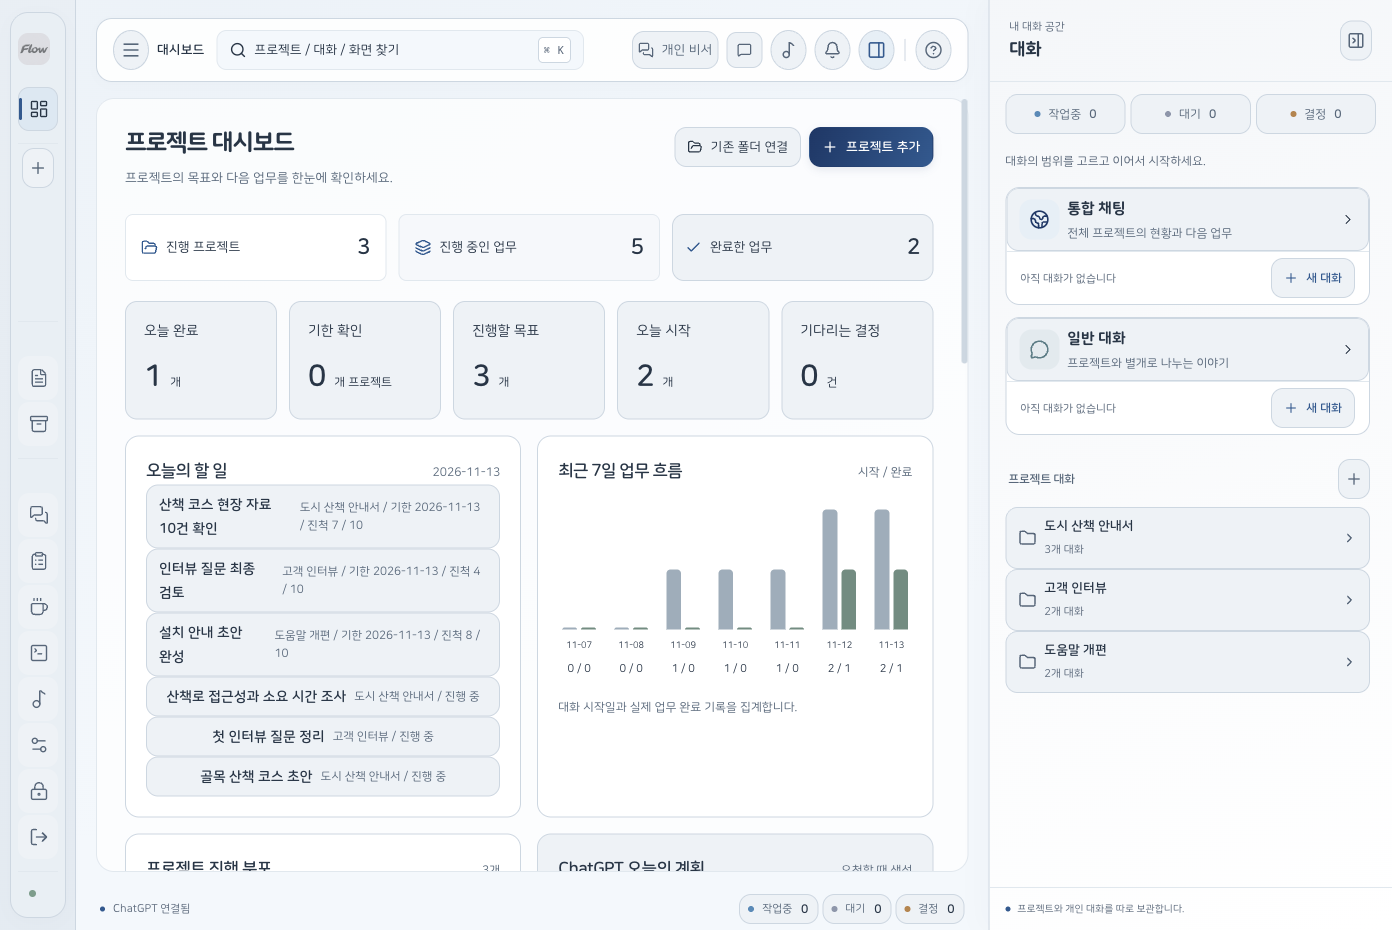
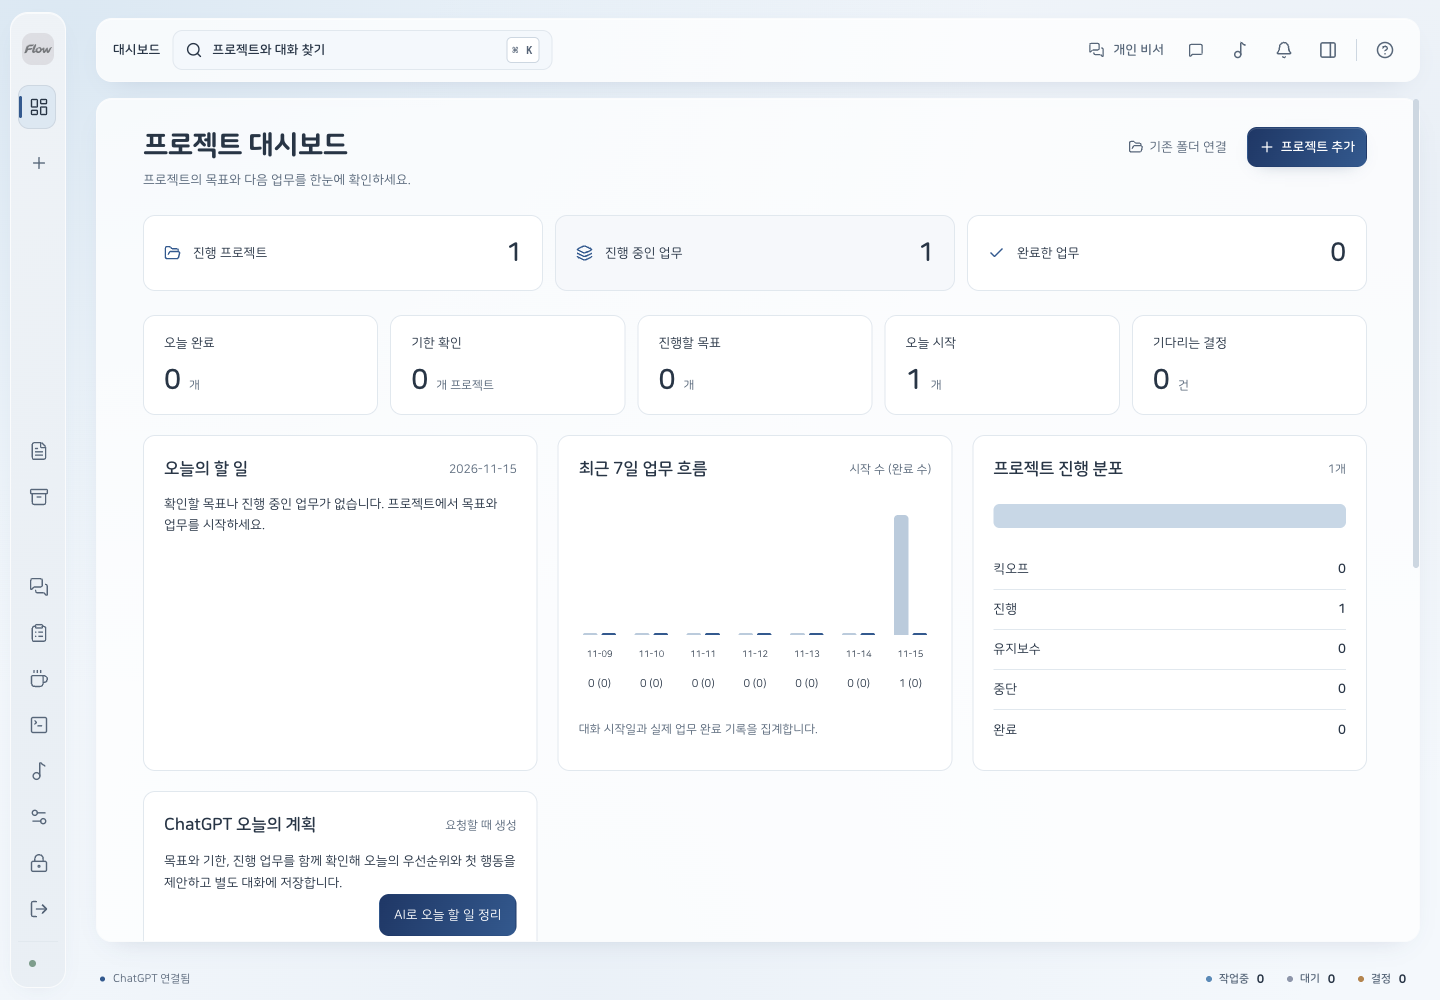
261115_01 넓은 대화의 이어가기와 업데이트 유지 및 최종 회귀 정리

diff --git a/docs/index.html b/docs/index.html
@@ -6,7 +6,7 @@
     <meta name="theme-color" content="#ffffff" />
     <meta
       name="description"
-      content="대시보드를 유지한 채 오른쪽에서 통합 채팅 / 프로젝트 대화 / 일반 대화를 이어가세요. Flowrium은 본인의 ChatGPT 계정으로 사용하는 Mac과 Windows용 AI 작업 공간입니다."
+      content="넓은 채팅에서 프로젝트와 역할별 대화를 이어가세요. Flowrium은 본인의 ChatGPT 계정으로 사용하는 Mac과 Windows용 AI 작업 공간입니다."
     />
     <title>Flowrium</title>
     <link rel="icon" href="./mark.png" type="image/png" />
@@ -36,7 +36,7 @@
       <section class="hero wrap" aria-labelledby="hero-title">
         <span class="eyebrow">프로젝트 작업 공간</span>
         <h1 id="hero-title">프로젝트를 열고,<br />오늘 할 일을 고르세요.</h1>
-        <p>본인의 ChatGPT 계정으로 조사 / 문서 / 보고를 맡기세요. 대시보드를 보면서 오른쪽 대화함에서 통합 채팅 / 프로젝트 대화 / 일반 대화를 따로 이어갑니다. 왼쪽 메뉴는 마우스를 올리면 펼쳐지고 벗어나면 접힙니다.</p>
+        <p>본인의 ChatGPT 계정으로 조사와 문서, 보고를 맡기세요. 대화는 넓게 열리고, 필요하면 대시보드와 나란히 볼 수 있습니다. 왼쪽 메뉴는 마우스를 올리면 펼쳐지고 벗어나면 접힙니다.</p>
         <div class="hero-actions">
           <a class="button primary" href="#download"
             >Flowrium 다운로드 <span aria-hidden="true">↓</span></a
@@ -51,22 +51,22 @@
       >
         <div class="section-heading">
           <div>
-            <h2 id="workspace-title">대시보드와 나란히 이어가는 대화</h2>
+            <h2 id="workspace-title">넓은 대화와 한눈에 보는 업무</h2>
           </div>
         </div>
         <figure class="app-preview">
           <img
             src="./workspace.png"
-            width="1392"
-            height="930"
-            alt="Flowrium 실제 화면. 왼쪽의 자동 확장 메뉴, 오늘의 할 일과 업무 그래프, 오른쪽의 통합 채팅 / 프로젝트 대화 / 일반 대화가 보입니다."
+            width="1440"
+            height="1000"
+            alt="Flowrium 실제 대시보드. 오늘의 할 일, 업무 그래프와 프로젝트 진행 분포를 확인할 수 있습니다."
           />
-          <figcaption>예시 프로젝트로 촬영한 실제 화면 / 왼쪽 메뉴는 마우스를 올리면 펼쳐집니다. 오른쪽에서 통합 채팅 / 프로젝트 대화 / 일반 대화를 골라도 대시보드를 계속 볼 수 있습니다.</figcaption>
+          <figcaption>예시 프로젝트로 촬영한 실제 화면입니다. 대화는 넓게 읽고, 필요할 때 대시보드와 나란히 보세요.</figcaption>
         </figure>
         <div class="features">
           <article>
             <h3>세 범위로 나눈 대화</h3>
-            <p>통합 채팅으로 전체 업무를 살피고, 프로젝트 대화로 실제 작업을 맡기고, 일반 대화로 별개의 질문을 이어가세요. 파일 첨부 / 실행 중 추가 지시 / 분기와 되감기도 대화마다 사용할 수 있습니다.</p>
+            <p>통합 채팅으로 전체 업무를 살피고, 프로젝트 대화로 실제 작업을 맡기고, 일반 대화로 별개의 질문을 이어가세요. 파일 첨부와 실행 중 추가 지시, 분기와 되감기도 대화마다 사용할 수 있습니다.</p>
           </article>
           <article>
             <h3>대화에서 산출물로</h3>
@@ -74,10 +74,10 @@
           </article>
           <article>
             <h3>오늘의 업무와 AI 보고</h3>
-            <p>목표 / 기한 / 그래프로 현황을 보고 ChatGPT에 오늘의 계획을 맡기세요. 중앙 팝업에서 프로젝트 / 기간 / 계정 모델과 생각의 깊이를 고르면 AI가 실제 완료 기록으로 보고와 인계를 작성합니다.</p>
+            <p>목표와 기한, 그래프로 현황을 보고 ChatGPT에 오늘의 계획을 맡기세요. 중앙 팝업에서 프로젝트와 기간, 계정 모델과 생각의 깊이를 고르면 AI가 실제 완료 기록으로 보고와 인계를 작성합니다.</p>
           </article>
           <article><h3>자료와 실행 도구 관리</h3><p>전체 자료를 미리 보고 새 폴더로 옮기세요. 원문과 백업을 보존합니다. 준비한 로컬 음성 서버의 실행을 관리하고 프로젝트 자동 포트표에서 서비스 주소와 충돌을 확인합니다.</p></article>
-          <article><h3>기존 프로젝트 대화 이어가기</h3><p>이 기기의 Codex 프로젝트 대화를 원래 문맥으로 연결하세요. 본문과 도구 기록 / 지원 첨부 / 원문을 로컬에 보관하고, 한 앱에서 작업한 뒤 다른 앱에서 새로고침해 이어갑니다. 독립 사본도 선택할 수 있습니다.</p></article>
+          <article><h3>기존 프로젝트 대화 이어가기</h3><p>이 기기의 Codex 프로젝트 대화를 원래 문맥으로 연결하세요. 본문과 도구 기록, 지원 첨부와 원문을 로컬에 보관하고, 한 앱에서 작업한 뒤 다른 앱에서 새로고침해 이어갑니다. 독립 사본도 선택할 수 있습니다.</p></article>
           <article><h3>설정과 긴 기록도 차분하게</h3><p>설정을 분류별로 찾고 주요 실행과 보조 행동을 구분합니다. 긴 대화의 원문은 보존하면서 최근 기록부터 나누어 표시해 이전 내용을 차례로 살펴봅니다.</p></article>
         </div>
       </section>
@@ -101,7 +101,7 @@
               <span class="os-symbol" aria-hidden="true">⌘</span>
               <h3>Mac</h3>
               <p>Apple Silicon</p>
-              <span class="architecture">M 시리즈 칩 / arm64</span
+              <span class="architecture">M 시리즈 칩 (arm64)</span
               ><a
                 class="download-button"
                 data-download="mac-arm64"
@@ -127,7 +127,7 @@
               </svg>
               <h3>Windows</h3>
               <p>64비트 PC</p>
-              <span class="architecture">Intel / AMD 프로세서 / x64</span
+              <span class="architecture">Intel 또는 AMD 프로세서 (x64)</span
               ><a
                 class="download-button"
                 data-download="win-x64"
@@ -144,7 +144,7 @@
               설치 파일의 서명 상태와 SHA-256 확인값은 해당 버전의 릴리스에서 확인하세요.
             </p>
             <p>기존 0.6.0 이하 버전은 날짜 형식의 새 설치본을 이번 한 번 직접 설치하세요. <a href="https://github.com/hyeondk/flowrium/blob/main/docs/VERSIONING.md">버전과 업데이트 안내 ↗</a></p>
-            <p><a href="https://github.com/hyeondk/flowrium/blob/main/docs/TERMINAL-INSTALL.md">터미널 설치 / 이 컴퓨터에서 직접 빌드하기 ↗</a></p>
+            <p><a href="https://github.com/hyeondk/flowrium/blob/main/docs/TERMINAL-INSTALL.md">터미널 설치와 직접 빌드하기 ↗</a></p>
             <a
               id="releases-link"
               href="https://github.com/hyeondk/flowrium/releases"
@@ -191,7 +191,7 @@
             <div>
               <h3>프로젝트와 대화 선택</h3>
               <p>
-                프로젝트 폴더를 연결하고 오른쪽에서 대화 범위를 고르세요. 일반 대화는 프로젝트 없이도 시작하며, 프로젝트에서 진행한 기존 Codex 대화도 골라 가져올 수 있습니다.
+                프로젝트 폴더를 연결하고 대화 범위를 고르세요. 일반 대화는 프로젝트 없이도 시작하며, 프로젝트에서 진행한 기존 Codex 대화도 골라 가져올 수 있습니다.
               </p>
             </div>
           </li>

diff --git a/src/chat-workspace.css b/src/chat-workspace.css
@@ -53,6 +53,9 @@
 .conversation-dock .markdown :is(a,code){overflow-wrap:anywhere;word-break:normal}
 .app-shell .conversation-dock .composer-area,.app-shell .conversation-dock .has-session .composer-area{padding:12px 24px 10px;background:var(--panel);border-top:1px solid var(--line-soft);margin:0;flex:none;width:100%;max-width:none;max-height:45%;overflow-y:auto;overflow-x:hidden}
 .app-shell .conversation-dock .workspace-main.has-session{overflow:hidden;scrollbar-gutter:auto;width:100%}
+.app-shell .conversation-dock .dock-chat-content>.workspace-main{height:auto;flex:1;min-height:0}
+.conversation-dock .dock-chat-content>.update-banner{flex:none;margin:0;padding:12px 20px;border-radius:0;border:0;border-bottom:1px solid var(--line-soft);font-size:12px}
+.conversation-dock .dock-chat-content>.update-banner p{font-size:12px;line-height:20px}
 .conversation-dock .attachment-composer{max-width:1120px;margin:0 auto}
 .app-shell .conversation-dock .composer{padding:8px 12px;border:1px solid var(--line);border-radius:14px;background:var(--input);box-shadow:0 2px 8px #081f4805;overflow:visible}
 .conversation-dock .has-session .composer:not(.working) .composer-topline{display:none}
@@ -88,5 +91,5 @@
 @media(max-width:360px){.app-shell .conversation-dock .composer .model-select{max-width:125px}.conversation-dock .composer-options{column-gap:0;row-gap:2px}.conversation-dock .composer-footnote{font-size:9px}.conversation-dock .composer-footnote>span{font-size:9px}}
 @media(max-width:760px){.conversation-dock[data-chat-active=true]>.dock-status-tabs{left:82px;right:82px;gap:2px}.conversation-dock[data-chat-active=true]>.dock-status-tabs>button{font-size:10px;gap:4px;padding:3px 4px}.conversation-dock[data-chat-active=true]>.dock-heading>div:first-child>div{display:none}}
 @media(max-width:360px){.conversation-dock[data-chat-active=true]>.dock-status-tabs{left:78px;right:78px;gap:0}.conversation-dock[data-chat-active=true]>.dock-status-tabs>button{font-size:9px;gap:3px;padding:3px}.conversation-dock[data-chat-active=true]>.dock-status-tabs strong{font-size:10px}.conversation-dock[data-chat-active=true]>.dock-status-tabs i{width:4px;height:4px}}
-@media(max-width:760px) and (max-height:650px){.conversation-dock[data-chat-active=true]>.dock-heading{height:44px;min-height:44px;padding-block:4px}.conversation-dock[data-chat-active=true] .session-heading{min-height:44px;padding-block:6px}.conversation-dock .has-session .composer-footnote{display:none}.app-shell .conversation-dock .has-session .composer-area{padding-block:8px}.conversation-dock .codex-link-bar{padding-block:2px}}
+@media(max-width:760px) and (max-height:650px){.conversation-dock[data-chat-active=true]>.dock-heading{height:44px;min-height:44px;padding-block:4px}.conversation-dock[data-chat-active=true] .session-heading{min-height:44px;padding-block:6px}.conversation-dock[data-chat-active=true] .session-heading>div:first-child{flex:1;min-width:0}.conversation-dock[data-chat-active=true] .session-heading h2{display:block;white-space:nowrap;text-overflow:ellipsis;overflow:hidden}.conversation-dock .has-session .composer-footnote{display:none}.app-shell .conversation-dock .has-session .composer-area{padding-block:8px}.conversation-dock .codex-link-bar{padding-block:2px}}
 @media(prefers-reduced-motion:reduce){.app-shell[data-chat-focus=true]>.conversation-dock{animation:none!important}}

diff --git a/src/App.tsx b/src/App.tsx
@@ -274,6 +274,7 @@ function UnlockedWorkspace({security}:{security:ReturnType<typeof useSecurity>})
   const [historySelected, setHistorySelected] = useState<string[]>([]);
   const [historyError, setHistoryError] = useState("");
   const settingsPresence=usePresence(settingsOpen),historyPresence=usePresence(historyOpen),deletePresence=usePresence(Boolean(pendingDelete)),sidebarPresence=usePresence(sidebarOpen,260),dockPresence=usePresence(dockOpen,280);
+  const isChatFocused=dockPresence.present&&chatActive&&chatExpanded;
   const [deciding, setDeciding] = useState<Record<string, boolean>>({});
   const [stopping, setStopping] = useState<Record<string, boolean>>({});
   const [toast, setToast] = useState("");
@@ -934,6 +935,7 @@ function UnlockedWorkspace({security}:{security:ReturnType<typeof useSecurity>})
 
   function renderChat(){const project=conversationProject;return (
           <div className="dock-chat-content">
+            {isChatFocused&&!settingsOpen&&<UpdatePanel state={update} fail={fail}/>}
             <div className={`workspace-main ${session ? "has-session" : ""}`}>
               {session ? (
                 <>
@@ -943,9 +945,10 @@ function UnlockedWorkspace({security}:{security:ReturnType<typeof useSecurity>})
                         <MessageSquare size={13} />
                         {session.scope==='integrated'?'통합 채팅':session.scope==='general'?'일반 대화':'프로젝트 대화'}
                       </span>
-                      <h2>{session.title}</h2>
+                      <h2 title={session.title}>{session.title}</h2>
                     </div>
                     <div className="session-actions">
+                      <button className="icon-button dock-chatgpt-button" aria-label="ChatGPT로 이어가기" title="ChatGPT로 이어가기" onClick={handoff}><ExternalLink size={17}/></button>
                       <ConversationTools key={session.id} session={session} models={models} running={running} onOpen={openWork} onChange={rememberSession} notify={notify} fail={fail} defaults={data.settings.chatDefaults} onDefaults={chatDefaults=>setData(old=>({...old,settings:{...old.settings,chatDefaults}}))} onRewind={draft=>setDrafts(prev=>({...prev,[draftKey]:{text:draft.text,mode,attachments:draft.attachments}}))} />
                       <button
                         className="icon-button"
@@ -1338,7 +1341,7 @@ function UnlockedWorkspace({security}:{security:ReturnType<typeof useSecurity>})
           </div>
   )}
   return (
-    <div className="app-shell" data-chat-focus={dockPresence.present&&chatActive&&chatExpanded}>
+    <div className="app-shell" data-chat-focus={isChatFocused}>
       {sidebarPresence.present && (
         <button
           className="sidebar-backdrop" data-phase={sidebarPresence.phase}
@@ -1394,7 +1397,7 @@ function UnlockedWorkspace({security}:{security:ReturnType<typeof useSecurity>})
           </div>
         </header>
         <MusicPanel visible={loaded&&view==="music"} locked={security.state.locked}/>
-        {!settingsOpen && <UpdatePanel state={update} fail={fail} />}
+        {!settingsOpen&&!isChatFocused && <UpdatePanel state={update} fail={fail} />}
         {!loaded ? (
           <div className="loading-page">
             <LoaderCircle className="spin" />

diff --git a/README.md b/README.md
@@ -4,9 +4,11 @@
 
 [다운로드](https://hyeondk.github.io/flowrium/), [릴리스와 설치 파일](https://github.com/hyeondk/flowrium/releases), [터미널 설치](docs/TERMINAL-INSTALL.md), [기능별 지원 범위](docs/FEATURES.md), [Codex 대화 연결](docs/CODEX-CHAT-LINK.md), [사용 범위와 전환 상태](docs/REPLACEMENT-STATUS.md)
 
-**261114_02**는 대화를 넓게 여는 화면과 간결한 입력 영역을 제공합니다. 메뉴의 겹침과 펼침 중 클릭 누락을 수정하고 Flow 로고의 중심을 맞췄습니다. 대시보드와 프로젝트, 업무 도구, 보관, 외부 연결을 설정 화면과 같은 간격으로 정리했으며, 파란색과 회색의 패널 깊이와 전환 효과를 적용했습니다. 검사 범위와 설치 조건은 [최종 검증 기록](https://github.com/hyeondk/flowrium/blob/main/docs/VALIDATION-261114_02.md)에 기록합니다. 설치본은 검증을 마친 [공개 릴리스](https://github.com/hyeondk/flowrium/releases)에서 제공하며 [날짜 버전 규칙](docs/VERSIONING.md)을 따릅니다.
+**261115_01**는 대화를 넓게 여는 화면과 간결한 입력 영역을 제공합니다. 메뉴의 겹침과 펼침 중 클릭 누락을 수정하고 Flow 로고의 중심을 맞췄습니다. 대시보드와 프로젝트, 업무 도구, 보관, 외부 연결을 설정 화면과 같은 간격으로 정리했으며, 파란색과 회색의 패널 깊이와 전환 효과를 적용했습니다. 검사 범위와 설치 조건은 [최종 검증 기록](https://github.com/hyeondk/flowrium/blob/main/docs/VALIDATION-261115_01.md)에 기록합니다. 설치본은 검증을 마친 [공개 릴리스](https://github.com/hyeondk/flowrium/releases)에서 제공하며 [날짜 버전 규칙](docs/VERSIONING.md)을 따릅니다.
 
 ![예시 프로젝트로 촬영한 실제 대시보드. 오늘의 할 일과 목표 진척, 최근 7일 업무 그래프를 표시합니다.](docs/workspace.png)
+
+![합성 대화로 검사한 넓은 채팅 화면입니다.](docs/chat.png)
 
 ![합성 프로젝트로 검사한 설정 화면입니다. 분류별 탐색과 내부 여백, 오른쪽 행동 버튼을 사용합니다.](docs/settings.png)
 

diff --git a/docs/release-notes.md b/docs/release-notes.md
@@ -1,4 +1,4 @@
-# Flowrium 261114_02
+# Flowrium 261115_01
 
 대화를 열면 넓은 본문을 먼저 보여 주고 입력 영역과 안내를 간결하게 정리합니다. 긴 프로젝트 목록이 아래 메뉴와 겹치는 문제를 수정하고, 기능별 화면의 여백과 글자 높이, 버튼 역할을 설정 화면과 같은 기준으로 정리합니다.
 
@@ -15,7 +15,7 @@
 
 ## 검증 준비 상태
 
-새 버전의 최종 Mac과 Windows 기능 회귀는 아직 완료하지 않았습니다. 패키지와 설치, 업데이트, 공개 파일 대조도 확인해야 합니다. 이 노트는 소스 변경과 검증 계획을 설명하며 **261114_02 공개 완료를 뜻하지 않습니다.** 현재 공개 설치본과 이전 확정 결과는 [261114_01 릴리스](https://github.com/hyeondk/flowrium/releases/tag/261114_01)와 [검증 기록](https://github.com/hyeondk/flowrium/blob/main/docs/VALIDATION-261114_01.md)에서 확인합니다.
+새 버전의 최종 Mac과 Windows 기능 회귀는 아직 완료하지 않았습니다. 패키지와 설치, 업데이트, 공개 파일 대조도 확인해야 합니다. 이 노트는 소스 변경과 검증 계획을 설명하며 **261115_01 공개 완료를 뜻하지 않습니다.** 현재 공개 설치본과 이전 확정 결과는 [261114_01 릴리스](https://github.com/hyeondk/flowrium/releases/tag/261114_01)와 [검증 기록](https://github.com/hyeondk/flowrium/blob/main/docs/VALIDATION-261114_01.md)에서 확인합니다.
 
 넓은 대화는 화면 크기별로 본문과 입력 높이, 가로 넘침, 과거 기록의 위치를 검사합니다. 긴 프로젝트 목록은 화면 높이별로 메뉴 접근을 확인하고, 기능별 화면은 여백과 작은 화면 배치를 검사합니다. 새 검사는 전체 배포 검증에 포함하며 하나라도 실패하면 설치 파일의 보관과 초안 릴리스 생성을 중단합니다. 재현용 이전 화면 옵션은 배포 검증에서 사용하지 않습니다.
 
